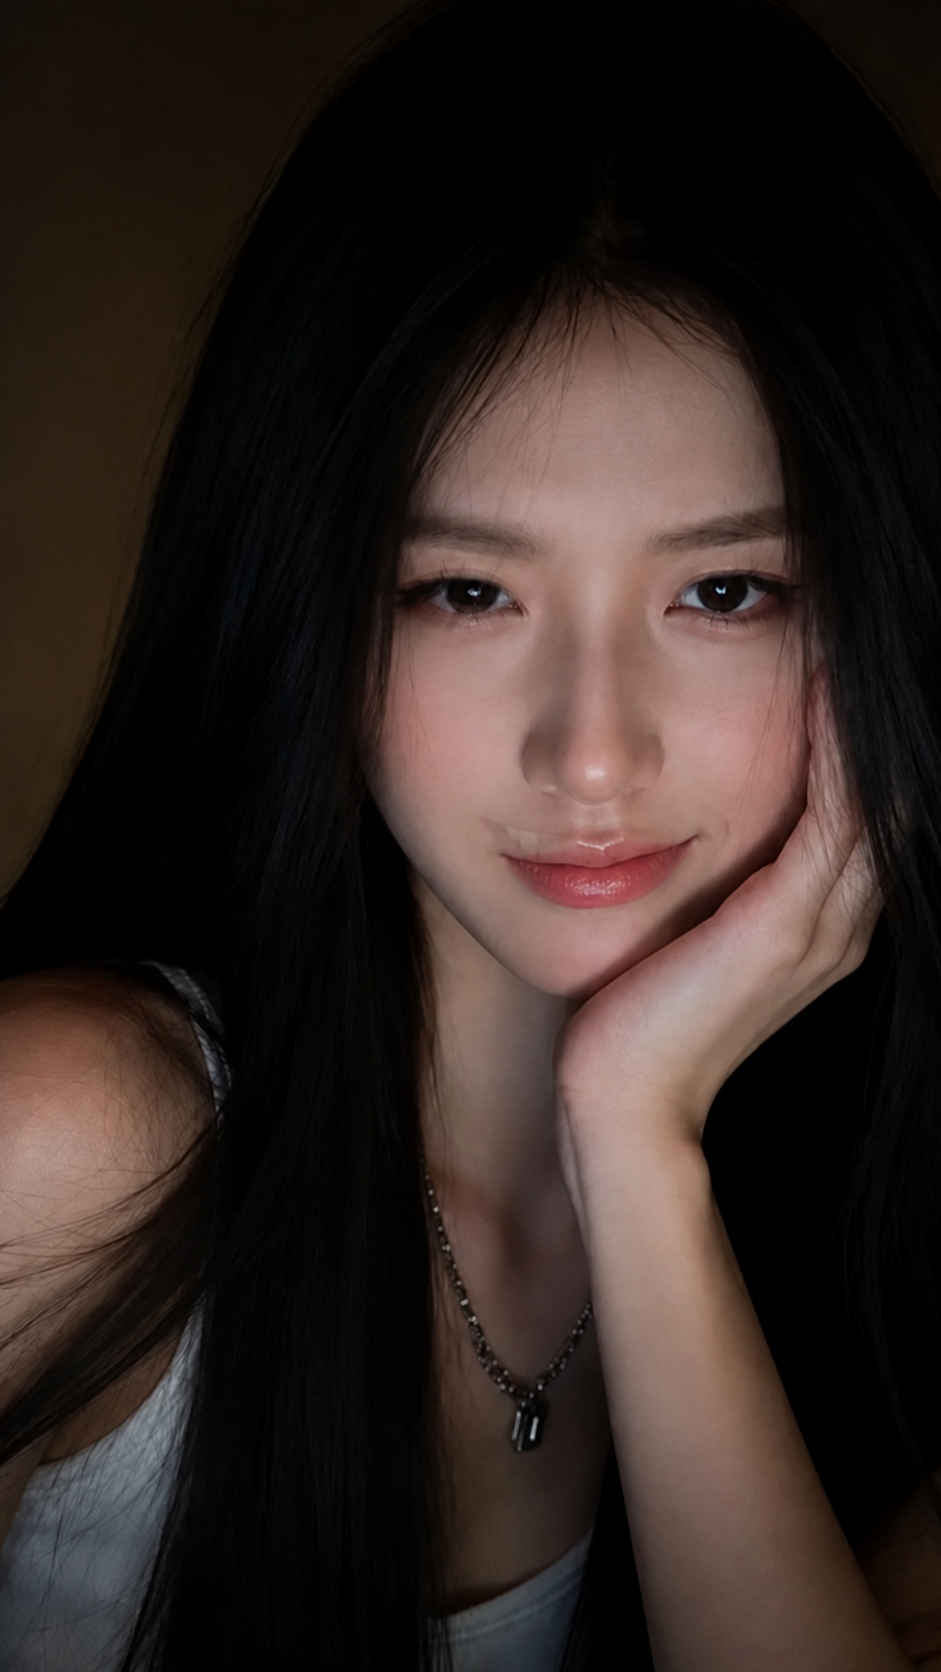
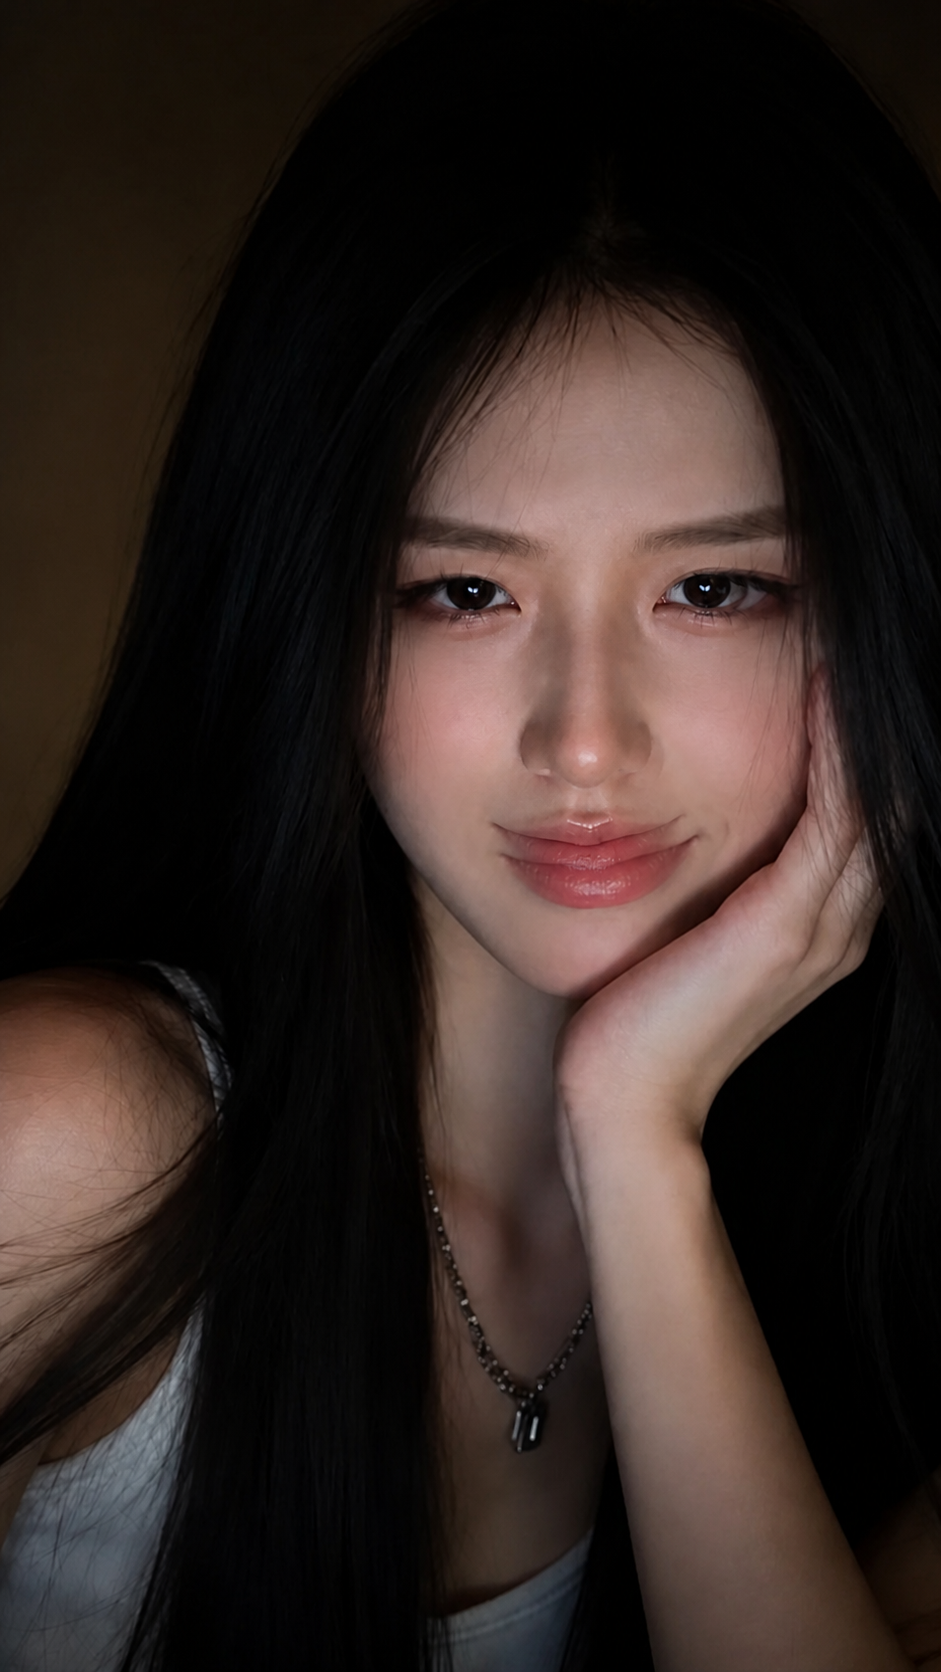
Ship the six new faces as full portraits locked to the original plates.
They are authored like the August set—complete stills for retarget and source-swap—while the old crop and body stay put so the live figure does not jump.

Changed region(s): [[0.5239, 0.4354, 0.7088, 0.5287], [0.6164, 0.311, 0.8013, 0.4043], [0.4623, 0.311, 0.5855, 0.4043]]

diff --git a/scripts/lock_locket_expressions.py b/scripts/lock_locket_expressions.py
@@ -1,0 +1,132 @@
+#!/usr/bin/env python3
+"""Lock newly generated expression portraits onto the August locket plates.
+
+Playback is unchanged: each output is a full 941x1672 still, copied to
+xiaoya_locket_expr_* and used for both exp-retarget and source-swap.
+
+Generation cannot keep the original camera. This script detects both faces,
+similarity-warps the new portrait onto an identity-matched August plate, and
+keeps the plate's body, hand and hair so the live crop does not jump.
+"""
+
+from __future__ import annotations
+
+import argparse
+from pathlib import Path
+
+import cv2
+import numpy as np
+from PIL import Image
+
+ROOT = Path(__file__).resolve().parents[1]
+EXPR_DIR = ROOT / "assets" / "expressions" / "xiaoya_locket"
+CANDIDATE_DIR = ROOT / "assets" / "expressions" / "candidates" / "stills"
+
+PLATE_SIZE = (941, 1672)  # width, height
+CASCADE = cv2.CascadeClassifier(
+    cv2.data.haarcascades + "haarcascade_frontalface_default.xml"
+)
+
+JOBS = (
+    ("soft-smile", "orig-soft-smile.png", "reference-smirk.png"),
+    ("curious", "orig-curious.png", "reference-one-brow.png"),
+    ("side-eye", "orig-side-eye.png", "reference-shy.png"),
+    ("lip-bite", "orig-lip-bite.png", "reference-pout.png"),
+    ("sleepy", "orig-sleepy.png", "reference-one-brow.png"),
+    ("tender", "orig-tender.png", "reference-shy.png"),
+)
+
+
+def load_rgb(path: Path) -> np.ndarray:
+    return np.asarray(Image.open(path).convert("RGB"))
+
+
+def detect_face(image: np.ndarray) -> tuple[int, int, int, int]:
+    gray = cv2.cvtColor(image, cv2.COLOR_RGB2GRAY)
+    faces = CASCADE.detectMultiScale(gray, 1.08, 4, minSize=(80, 80))
+    if len(faces) == 0:
+        raise SystemExit("no face detected")
+    x, y, w, h = max(faces, key=lambda item: int(item[2]) * int(item[3]))
+    return int(x), int(y), int(w), int(h)
+
+
+def lock_to_plate(generated: np.ndarray, plate: np.ndarray) -> np.ndarray:
+    gx, gy, gw, gh = detect_face(generated)
+    px, py, pw, ph = detect_face(plate)
+    scale = 0.5 * (pw / gw + ph / gh)
+    src_cx, src_cy = gx + gw / 2.0, gy + gh / 2.0
+    dst_cx, dst_cy = px + pw / 2.0, py + ph / 2.0
+    matrix = np.array(
+        [
+            [scale, 0.0, dst_cx - scale * src_cx],
+            [0.0, scale, dst_cy - scale * src_cy],
+        ],
+        dtype=np.float32,
+    )
+    height, width = plate.shape[:2]
+    warped = cv2.warpAffine(
+        generated,
+        matrix,
+        (width, height),
+        flags=cv2.INTER_CUBIC,
+        borderMode=cv2.BORDER_REFLECT,
+    )
+    yy, xx = np.mgrid[0:height, 0:width]
+    radius = np.sqrt(
+        ((xx - dst_cx) / max(1.0, pw * 0.36)) ** 2
+        + ((yy - dst_cy) / max(1.0, ph * 0.40)) ** 2
+    )
+    alpha = np.clip((1.0 - radius) / 0.34, 0.0, 1.0)
+    alpha = alpha * alpha * (3.0 - 2.0 * alpha)
+    # Keep the plate hand: it sits on the viewer's right, lower face.
+    hand = np.clip((xx - (px + pw * 0.52)) / max(1.0, pw * 0.22), 0.0, 1.0)
+    hand *= np.clip((yy - (py + ph * 0.42)) / max(1.0, ph * 0.22), 0.0, 1.0)
+    alpha = alpha * (1.0 - 0.88 * hand)
+    locked = plate.astype(np.float32) * (1.0 - alpha[..., None]) + warped.astype(
+        np.float32
+    ) * alpha[..., None]
+    return np.clip(locked, 0, 255).astype(np.uint8)
+
+
+def body_mse(a: np.ndarray, b: np.ndarray) -> float:
+    h, w = a.shape[:2]
+    body = (
+        a[int(h * 0.48) : int(h * 0.98), int(w * 0.10) : int(w * 0.90)].astype(np.float32)
+        - b[int(h * 0.48) : int(h * 0.98), int(w * 0.10) : int(w * 0.90)].astype(np.float32)
+    )
+    return float((body * body).mean())
+
+
+def main() -> None:
+    parser = argparse.ArgumentParser()
+    parser.add_argument(
+        "--src-dir",
+        type=Path,
+        default=Path("/root/.cursor/projects/root-cyber-girlfriend/assets"),
+    )
+    parser.add_argument("--write", action="store_true")
+    parser.add_argument("--preview-dir", type=Path, default=Path("/tmp/locket-locked"))
+    args = parser.parse_args()
+    args.preview_dir.mkdir(parents=True, exist_ok=True)
+    laugh = load_rgb(EXPR_DIR / "reference-laugh.png")
+    print(f"{'name':12s} {'body_mse':>8s}  plate")
+    for name, generated_name, plate_name in JOBS:
+        generated = load_rgb(args.src_dir / generated_name)
+        plate = load_rgb(EXPR_DIR / plate_name)
+        if plate.shape[1] != PLATE_SIZE[0] or plate.shape[0] != PLATE_SIZE[1]:
+            raise SystemExit(f"{plate_name} is not 941x1672")
+        locked = lock_to_plate(generated, plate)
+        mse = body_mse(locked, laugh)
+        Image.fromarray(locked).save(args.preview_dir / f"{name}.png")
+        Image.fromarray(locked[280:1040, 200:760]).resize((320, 430)).save(
+            args.preview_dir / f"face-{name}.jpg", quality=90
+        )
+        print(f"{name:12s} {mse:8.1f}  {plate_name}")
+        if args.write:
+            Image.fromarray(locked).save(EXPR_DIR / f"reference-{name}.png")
+            if CANDIDATE_DIR.is_dir():
+                Image.fromarray(locked).save(CANDIDATE_DIR / f"{name}.png")
+
+
+if __name__ == "__main__":
+    main()
